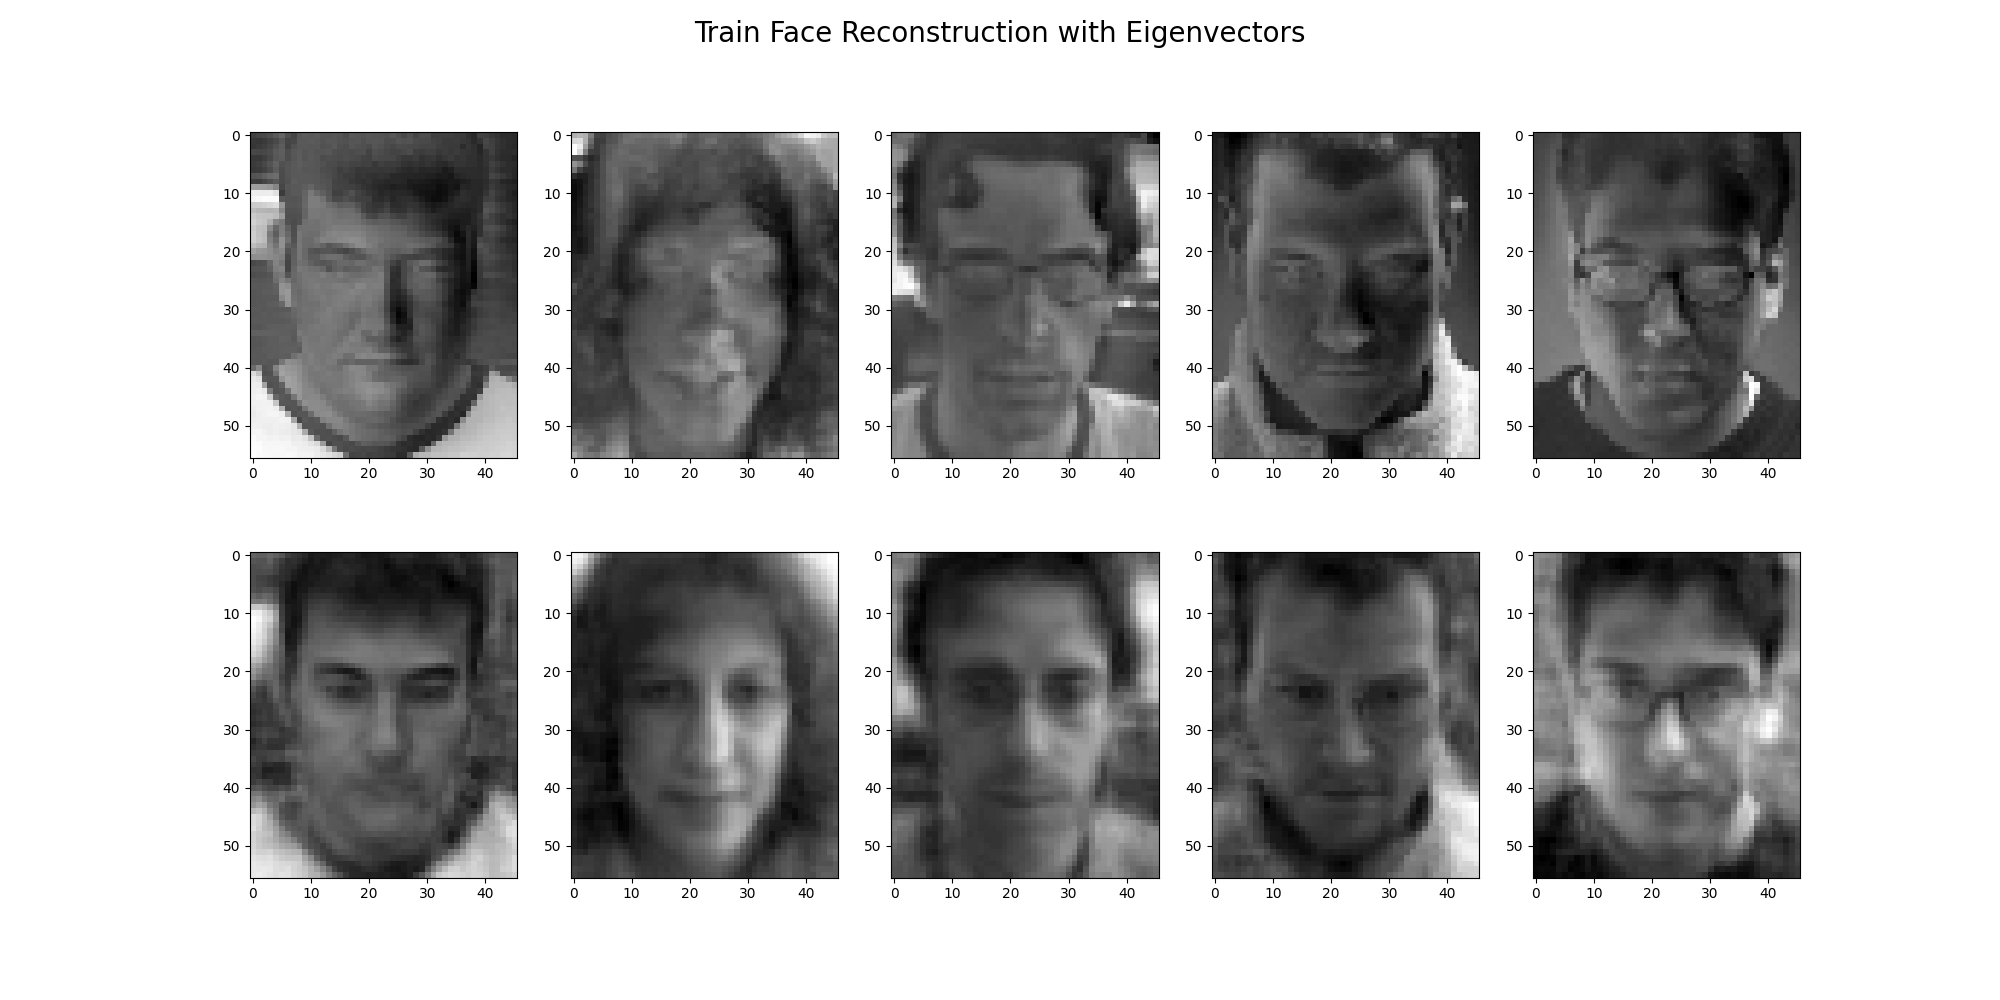
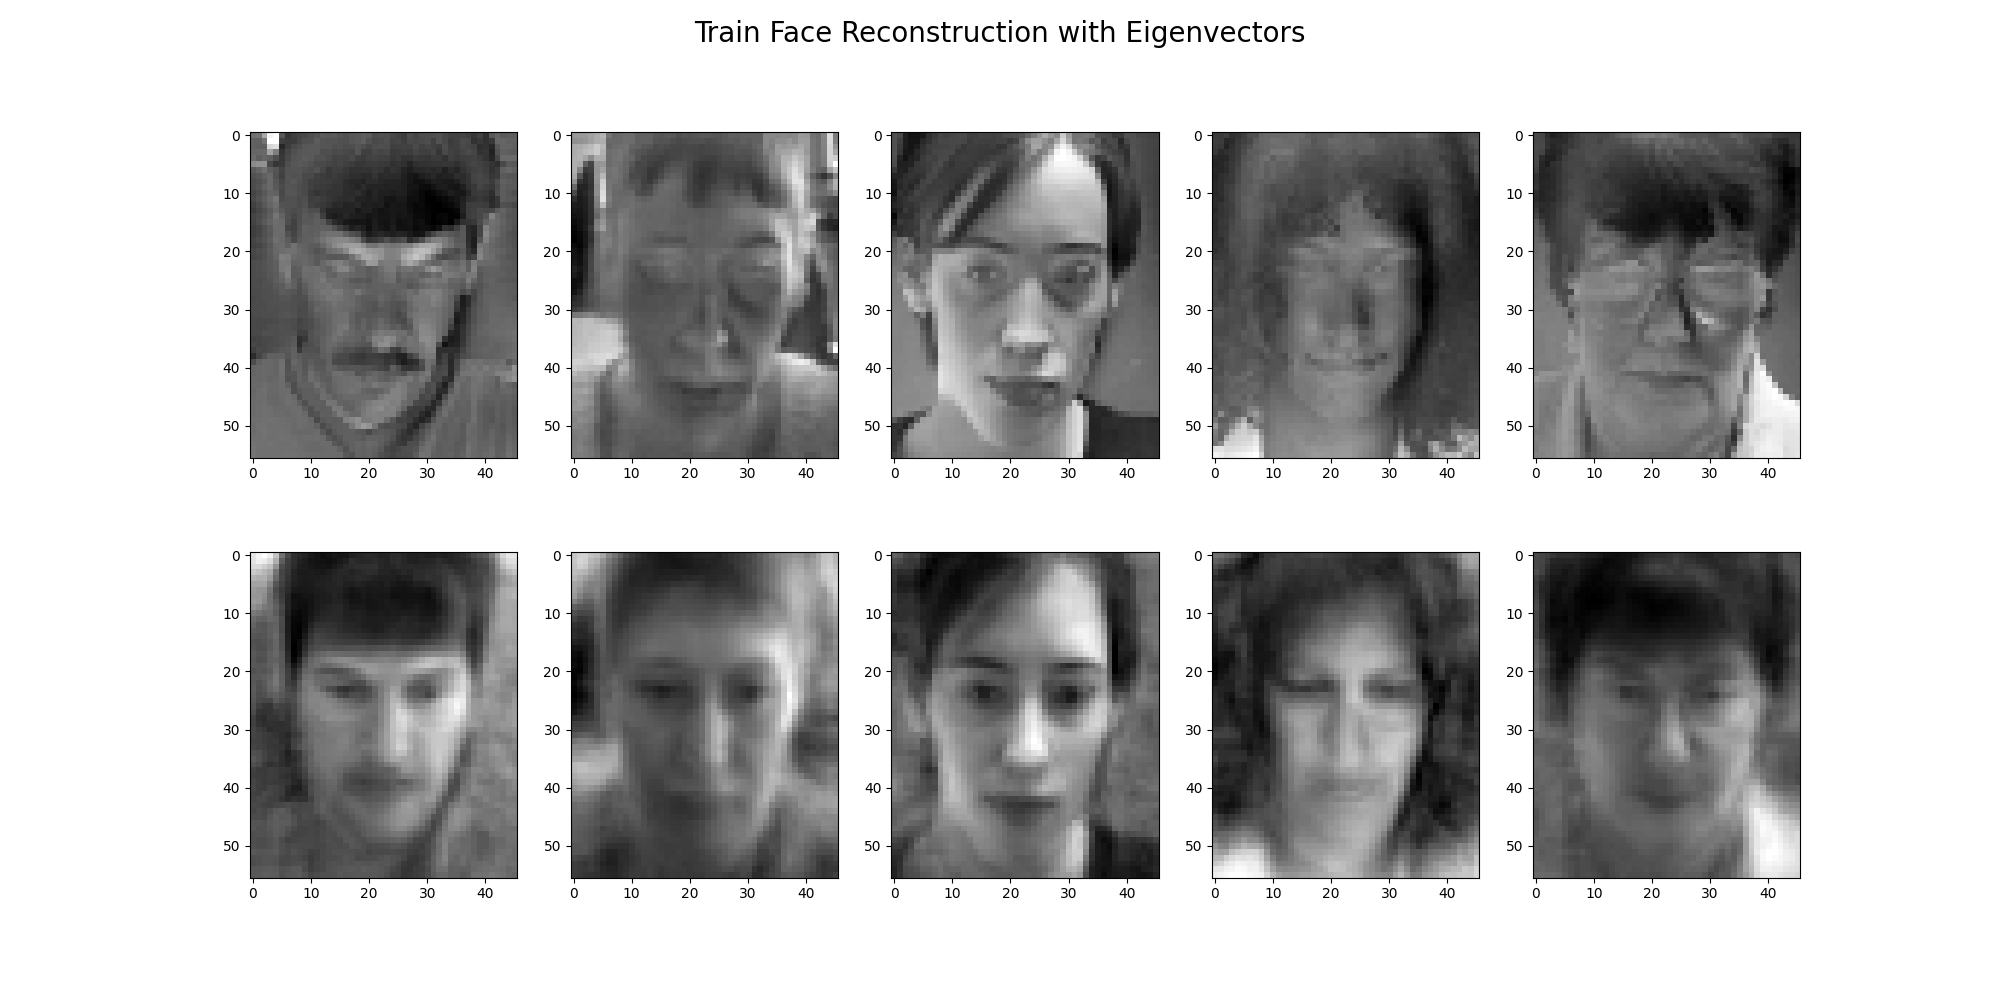
Q1 completed

Changed region(s): [[0.124, 0.527, 0.899, 0.899], [0.124, 0.124, 0.899, 0.465]]

diff --git a/Q1/eigenfaces.py b/Q1/eigenfaces.py
@@ -12,6 +12,7 @@ from argparse import ArgumentParser
 from utils.dataset import split_train_test
 from utils.visualize import visualize_face, visualize_faces, visualize_graph, visualize_tsne, visualize_3d
 
+
 if __name__ == '__main__':
     parser = ArgumentParser()
     parser.add_argument("--vis", dest="vis", action="store_true", help="Visualize images")
@@ -46,7 +47,8 @@ if __name__ == '__main__':
 
     eigenvalues, eigenvectors = eigenvalues.astype(float), np.swapaxes(eigenvectors.astype(float), 0, 1)
     sort_indices = np.argsort(eigenvalues)[::-1]
-    best_m_eigenvectors = eigenvectors[sort_indices[:args.best_m]]
+    eigenvectors = eigenvectors[sort_indices]
+    best_m_eigenvectors = eigenvectors[:args.best_m]
 
     if args.vis:
         visualize_faces(best_m_eigenvectors.astype(float), n=1, random=False, title="Best Eigenvectors")
@@ -62,7 +64,8 @@ if __name__ == '__main__':
 
     low_eigenvalues, low_eigenvectors = low_eigenvalues.astype(float), low_eigenvectors.astype(float)
     low_sort_indices = np.argsort(low_eigenvalues)[::-1]
-    low_best_m_eigenvectors = low_eigenvectors[low_sort_indices[:args.best_m]]
+    low_eigenvectors = low_eigenvectors[low_sort_indices]
+    low_best_m_eigenvectors = low_eigenvectors[:args.best_m]
 
     if args.vis:
         visualize_faces(low_best_m_eigenvectors.astype(float), n=1, random=False, title="Best Low Eigenvectors")
@@ -82,14 +85,14 @@ if __name__ == '__main__':
 
     """ Train Reconstruction Loss """
     train_reconstruction_losses = []
-    for m in trange(1, dataset["train_faces"].shape[0] + 1):
-        m_eigenvectors = eigenvectors[sort_indices[:m]]
+    for m in trange(1, dataset["train_faces"].shape[0]):
+        m_eigenvectors = eigenvectors[:m]
         reconstructed = average_face + (subtracted_faces @ m_eigenvectors.T)  @ m_eigenvectors
         train_reconstruction_losses.append(np.average(linalg.norm(reconstructed - dataset["train_faces"], axis=1), axis=0))
 
     train_low_reconstruction_losses = []
-    for m in trange(1, dataset["train_faces"].shape[0] + 1):
-        m_eigenvectors = low_eigenvectors[low_sort_indices[:m]]
+    for m in trange(1, dataset["train_faces"].shape[0]):
+        m_eigenvectors = low_eigenvectors[:m]
         reconstructed = average_face + (subtracted_faces @ m_eigenvectors.T)  @ m_eigenvectors
         train_low_reconstruction_losses.append(np.average(linalg.norm(reconstructed - dataset["train_faces"], axis=1), axis=0))
 
@@ -97,34 +100,34 @@ if __name__ == '__main__':
     test_subtracted_faces = dataset["test_faces"] - average_face
 
     test_reconstruction_losses = []
-    for m in trange(1, dataset["train_faces"].shape[0] + 1):
-        m_eigenvectors = eigenvectors[sort_indices[:m]]
+    for m in trange(1, dataset["train_faces"].shape[0]):
+        m_eigenvectors = eigenvectors[:m]
         reconstructed = average_face + (test_subtracted_faces @ m_eigenvectors.T)  @ m_eigenvectors
         test_reconstruction_losses.append(np.average(linalg.norm(reconstructed - dataset["test_faces"], axis=1), axis=0))
 
     test_low_reconstruction_losses = []
-    for m in trange(1, dataset["train_faces"].shape[0] + 1):
-        m_eigenvectors = low_eigenvectors[low_sort_indices[:m]]
+    for m in trange(1, dataset["train_faces"].shape[0]):
+        m_eigenvectors = low_eigenvectors[:m]
         reconstructed = average_face + (test_subtracted_faces @ m_eigenvectors.T)  @ m_eigenvectors
         test_low_reconstruction_losses.append(np.average(linalg.norm(reconstructed - dataset["test_faces"], axis=1), axis=0))
 
     """ Visualize Reconstruction Losses """
     if args.vis:
-        visualize_graph(x_axis=np.arange(1, dataset["train_faces"].shape[0] + 1),
+        visualize_graph(x_axis=np.arange(1, dataset["train_faces"].shape[0]),
                         y_axes=[train_reconstruction_losses, train_low_reconstruction_losses],
                         xlabel="M",
                         ylabel="Reconstruction Train Loss",
                         legend=['Original', 'Low Computation'],
                         title="Reconstruction Train Loss")
 
-        visualize_graph(x_axis=np.arange(1, dataset["train_faces"].shape[0] + 1),
+        visualize_graph(x_axis=np.arange(1, dataset["train_faces"].shape[0]),
                         y_axes=[test_reconstruction_losses, test_low_reconstruction_losses],
                         xlabel="M",
                         ylabel="Reconstruction Test Loss",
                         legend=['Original', 'Low Computation'],
                         title="Reconstruction Test Loss")
 
-        visualize_graph(x_axis=np.arange(1, dataset["train_faces"].shape[0] + 1),
+        visualize_graph(x_axis=np.arange(1, dataset["train_faces"].shape[0]),
                         y_axes=[train_reconstruction_losses,
                                 train_low_reconstruction_losses,
                                 test_reconstruction_losses,
@@ -155,7 +158,7 @@ if __name__ == '__main__':
     max_accuracy = 0
     max_accuracy_eigenvectors = None
     max_accuracy_target, max_accuracy_nn = [], []
-    for m in trange(1, dataset["train_faces"].shape[0] + 1):
+    for m in trange(1, dataset["train_faces"].shape[0]):
         m_eigenvectors = low_eigenvectors[low_sort_indices[:m]]
         train_projected = subtracted_faces @ m_eigenvectors.T
         test_projected = test_subtracted_faces @ m_eigenvectors.T
@@ -182,7 +185,7 @@ if __name__ == '__main__':
         list_accuracy.append(accuracy)
 
     if args.vis:
-        visualize_graph(x_axis=np.arange(1, dataset["train_faces"].shape[0] + 1),
+        visualize_graph(x_axis=np.arange(1, dataset["train_faces"].shape[0]),
                         y_axes=[list_accuracy],
                         xlabel="M",
                         ylabel="Identity Recognition Test Accuracy",
@@ -202,7 +205,7 @@ if __name__ == '__main__':
         visualize_faces(inp, n=1, rows=4, cols=5, title="Nearest Neighbor Fail Cases")
 
     """ 3-Dimension Projection (M=3) """
-    m_eigenvectors = low_eigenvectors[low_sort_indices[:3]]
+    m_eigenvectors = low_eigenvectors[:3]
     train_projected = subtracted_faces @ m_eigenvectors.T
     test_projected = test_subtracted_faces @ m_eigenvectors.T
 
